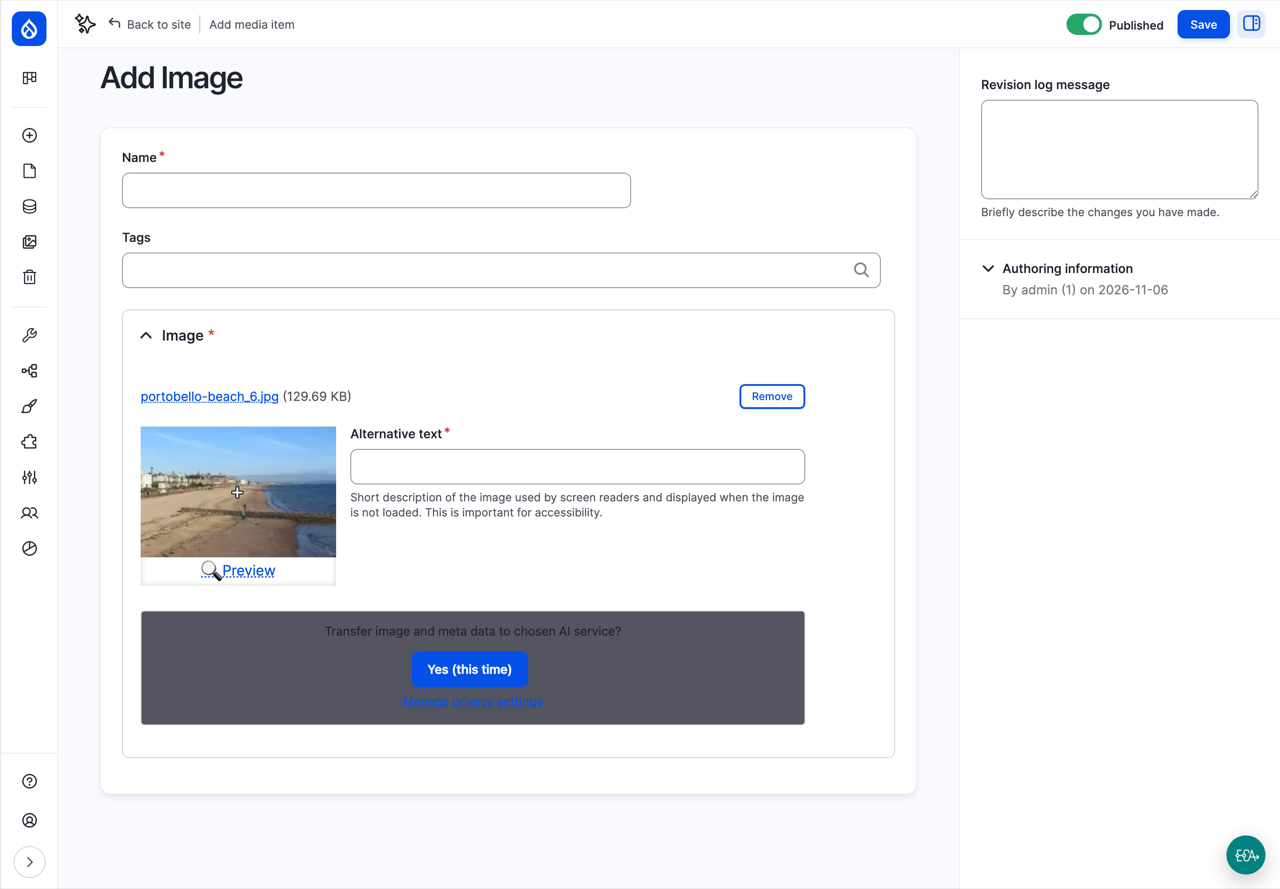
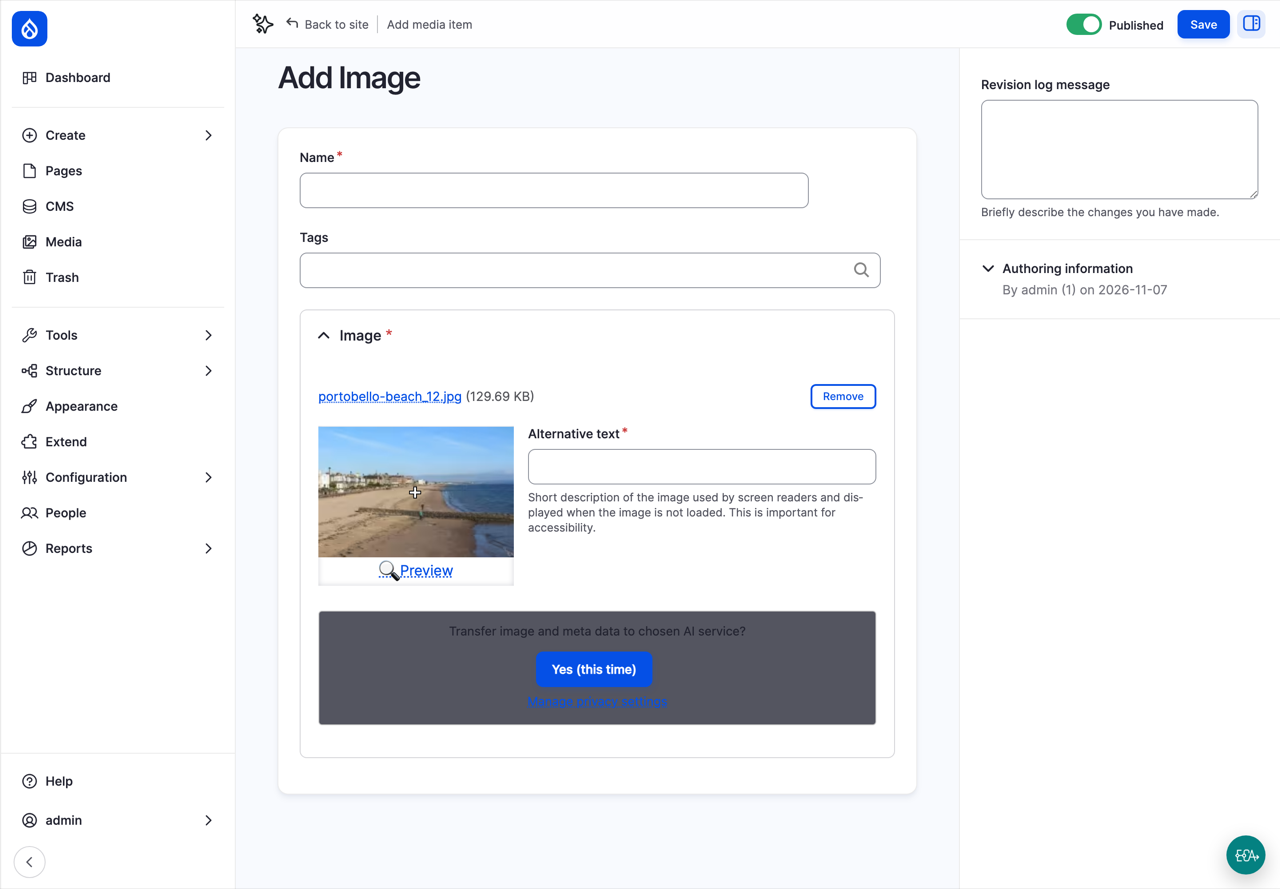
Chapter 19: figures retaken on Claude
The main screenshot sequence installs with amazee.ai, then switches to
Anthropic (the author's key) for the AI steps, and all its figures were
retaken. Canvas AI counts as done when the Review button appears, since
Claude leaves Thinking on screen. Translate Text gets no default so
Canvas Translate AI uses Claude, and the chapter says so. The &amp;
stays a fix by hand, as the author decided.

diff --git a/tools/screenshots.py b/tools/screenshots.py
@@ -4295,7 +4295,7 @@ def ai19_chat_text(page: Page) -> str:
     return page.evaluate("() => { const c = document.querySelector('deep-chat'); const m = c && c.shadowRoot && c.shadowRoot.querySelector('#messages'); return m ? m.innerText : ''; }")
 
 
-def ai19_ask(page: Page, prompt: str, at_least: int = 30, quiet: int = 20, shot=None) -> str:
+def ai19_ask(page: Page, prompt: str, at_least: int = 30, quiet: int = 20, shot=None, done=None) -> str:
     """Types a prompt into the AI chat, sends it, and waits until the answer has stopped growing for `quiet` seconds."""
     before = len(ai19_chat_text(page))
     # Away from the navigation sidebar, which opens under the mouse and covers the chat.
@@ -4307,24 +4307,27 @@ def ai19_ask(page: Page, prompt: str, at_least: int = 30, quiet: int = 20, shot=
         shot()
     page.keyboard.press("Enter")
     waited, still, last = 0, 0, ""
-    while waited < 600:
+    while waited < 900:
         page.wait_for_timeout(5000)
         waited += 5
         text = ai19_chat_text(page)
         still = still + 5 if text == last else 0
         last = text
-        # The assistant shows "Contacting agents..." while its agents work, and Canvas AI "Thinking":
-        # either can last minutes without a change.
-        # Only a visible "Thinking" counts: Claude's answers leave a hidden one behind.
-        thinking = page.get_by_text("Thinking", exact=True)
-        busy = "Contacting agents" in text or any(thinking.nth(i).is_visible() for i in range(thinking.count()))
+        # The assistant shows "Contacting agents..." while its agents work. Canvas AI shows "Thinking", but
+        # with Claude that stays on screen after the answer, so Canvas pages pass their own `done` instead.
+        if done:
+            finished = done(page)
+        else:
+            thinking = page.get_by_text("Thinking", exact=True)
+            finished = not any(thinking.nth(i).is_visible() for i in range(thinking.count()))
+        busy = "Contacting agents" in text or not finished
         if waited >= at_least and len(text) > before + 100 and still >= quiet and not busy:
             # Show the newest question and answer from their start.
             page.evaluate("() => { const m = document.querySelector('deep-chat').shadowRoot.querySelector('#messages'); const users = m.querySelectorAll('.user-message'); if (users.length) users[users.length - 1].scrollIntoView(); }")
             page.mouse.move(1100, 700)
             page.wait_for_timeout(1000)
             return text
-    raise RuntimeError("The AI didn't answer within ten minutes")
+    raise RuntimeError("The AI didn't answer within fifteen minutes")
 
 
 def ai19_klaro_yes(page: Page, within: str = "body") -> None:
@@ -4361,15 +4364,18 @@ def ai19_canvas_page(page: Page, site: dict, prompt: str, shot_prompt=None) -> N
     page.wait_for_timeout(6000)
     page.get_by_label("Open AI Panel").click()
     page.wait_for_timeout(2500)
-    ai19_ask(page, prompt, at_least=180, quiet=45, shot=(lambda: shot_prompt()) if shot_prompt else None)
+    # Done when Canvas AI has put its changes on the page: the Review button counts them.
+    ai19_ask(page, prompt, at_least=180, quiet=45, shot=(lambda: shot_prompt()) if shot_prompt else None,
+             done=lambda p: p.locator("button:has-text('Review')").filter(has_text="change").count() > 0)
     page.wait_for_timeout(3000)
 
 
 def ai19_cms_steps(page: Page, site: dict, snap) -> None:
     """Chapter 19 on Drupal CMS: the AI Assistant, the chatbot, alt text, Canvas AI and Canvas Translate AI.
 
-    Starts from the end of Chapter 18 (a DDEV snapshot). Talks to amazee.ai's free trial, so it needs
-    the internet, and the AI's answers (and so the screenshots) are different every time.
+    Starts from the end of Chapter 18 (a DDEV snapshot). Installs with amazee.ai, as the chapter does, then
+    switches to Anthropic for the AI steps (needs the author's key), so it needs the internet, costs a little,
+    and the AI's answers (and so the screenshots) are different every time.
     """
     url = site["url"]
     subprocess.run(["ddev", "snapshot", "restore", "ch18-done"], cwd=site["dir"], check=True, capture_output=True)
@@ -4404,6 +4410,9 @@ def ai19_cms_steps(page: Page, site: dict, snap) -> None:
     page.evaluate("() => { document.activeElement && document.activeElement.blur(); window.scrollTo(0, 0); }")
     ai19_tidy(page)
     snap("19-cms-ai-dashboard")
+    # The figures from here on are taken with Anthropic: amazee.ai's trial without an account runs out after
+    # a few runs (the chapter says so). Needs the key, see ai19_anthropic_key().
+    ai19_use_anthropic(page, site)
 
     # The chatbot: tags, then a field.
     tags = url + "/admin/structure/taxonomy/manage/tags/overview"
@@ -4520,16 +4529,13 @@ def ai19_anthropic_key() -> str:
     return key
 
 
-def ai19_anthropic_steps(page: Page, site: dict, snap) -> None:
-    """Chapter 19, the second provider: Anthropic's key and settings, then the same questions as with amazee.ai.
+def ai19_use_anthropic(page: Page, site: dict, snap=None) -> None:
+    """Connects Anthropic the way the chapter does: a key, the provider, and AI Settings.
 
-    Starts right after the AI Assistant was installed (a DDEV snapshot). Without a key (see ai19_anthropic_key),
-    it only takes the provider page, with no key selected.
+    The key comes from ai19_anthropic_key(). With `snap`, takes the provider page and AI Settings
+    (figures 19.17 and 19.18); without a key, takes only the provider page and returns.
     """
     url = site["url"]
-    subprocess.run(["ddev", "snapshot", "restore", "ch19-ai-installed"], cwd=site["dir"], check=True, capture_output=True)
-    drush(site, "cache:rebuild")
-    log_in(page, site)
     key = ai19_anthropic_key()
     if key:
         page.goto(url + "/admin/config/system/keys/add")
@@ -4554,15 +4560,19 @@ def ai19_anthropic_steps(page: Page, site: dict, snap) -> None:
     if key:
         page.select_option("select[name='api_key']", label="Anthropic API key")
         page.wait_for_timeout(1000)
-    snap("19-cms-anthropic")
+    if snap:
+        snap("19-cms-anthropic")
     if not key:
-        print("No Anthropic API key: skipping the rest of the Anthropic sequence.")
-        return
+        if snap:
+            print("No Anthropic API key: skipping the rest of the Anthropic sequence.")
+            return
+        raise RuntimeError("No Anthropic API key: see ai19_anthropic_key()")
     page.locator("#edit-submit").first.evaluate("e => e.click()")
     page.wait_for_load_state("networkidle")
 
-    # AI Settings: Anthropic, Claude Sonnet 5.5, for every chat operation type. Set with Drush (the page's
-    # selects load their models by AJAX, which is unreliable from a script), then shown on the page.
+    # AI Settings: Anthropic, Claude Sonnet 5.5, for the chat jobs, and no default for Translate Text, so
+    # Canvas Translate AI falls back to chat. Set with Drush (the page's selects load their models by AJAX,
+    # which is unreliable from a script), then shown on the page.
     drush_php(site, r"""
 $config = \Drupal::configFactory()->getEditable('ai.settings');
 $defaults = $config->get('default_providers');
@@ -4570,13 +4580,30 @@ $defaults = $config->get('default_providers');
 foreach (['chat', 'chat_with_image_vision', 'chat_with_structured_response', 'chat_with_tools'] as $op) {
   $defaults[$op] = ['provider_id' => 'anthropic', 'model_id' => 'claude-sonnet-5-5'];
 }
+unset($defaults['translate_text']);
 $config->set('default_providers', $defaults)->save();
 """)
-    page.goto(url + "/admin/config/ai/settings")
-    page.wait_for_load_state("networkidle")
-    page.wait_for_timeout(1500)
-    ai19_tidy(page)
-    snap("19-cms-ai-settings")
+    if snap:
+        page.goto(url + "/admin/config/ai/settings")
+        page.wait_for_load_state("networkidle")
+        page.wait_for_timeout(1500)
+        ai19_tidy(page)
+        snap("19-cms-ai-settings")
+
+
+def ai19_anthropic_steps(page: Page, site: dict, snap) -> None:
+    """Chapter 19, the second provider: Anthropic's key and settings, then the same questions as with amazee.ai.
+
+    Starts right after the AI Assistant was installed (a DDEV snapshot). Without a key (see ai19_anthropic_key),
+    it only takes the provider page, with no key selected.
+    """
+    url = site["url"]
+    subprocess.run(["ddev", "snapshot", "restore", "ch19-ai-installed"], cwd=site["dir"], check=True, capture_output=True)
+    drush(site, "cache:rebuild")
+    log_in(page, site)
+    ai19_use_anthropic(page, site, snap)
+    if not ai19_anthropic_key():
+        return
 
     # The same questions as with amazee.ai: tags, alt text, and the short Canvas AI prompt.
     tags = url + "/admin/structure/taxonomy/manage/tags/overview"

diff --git a/PROJECT-LOG.md b/PROJECT-LOG.md
@@ -119,7 +119,7 @@ Made on 2026-11-04, at the start of the rewrite.
 - **2026-11-06**: The author on Chapter 13: count the photos in each album. A pointer after Figure 13.13, Exercise 7 *(advanced)*, and its answer in Appendix C (Figures C.4 to C.6), tested on the site: with aggregation on, the first-photo field groups by the photo's ID (`group_column` `target_id`), so the duplicates of "Too many rows" come back with a count of 1 each; **Group column** **Entity ID** groups by the album, and the field still shows the first photo. A screenshot sequence that undoes itself (`views2_album_count_steps`). Committed on the Chapter 14 branch, with the author's agreement.
 - **2026-11-06**: Drafted Chapter 18, *Multilingual Sites*, with the author's answers: translate everything visitors see (interface, the four content types, both vocabularies, media alt text, menus, the Club info and Join blocks, view and block titles, field labels); `/es` prefix with English bare, a switcher in Olivero's Secondary menu, Browser detection described but off; Spanish aliases from per-language Pathauto patterns (`/excursiones`, `/albumes`, `/noticias`, `/zonas`, `/temas-fotograficos`); neutral Spanish, code `es`; a Translator role for Lucía; Canvas Translate on Drupal CMS (AI translation left for Chapter 19); four boxes (Drupalism: three translations; Under the hood: translations; Coming from WordPress?; contributed modules). Found on the way: views list every translation (fixed with **Default translation** = True and **Rendering Language** = the page's language, set per display); Pathauto's automatic-alias setting is per entity, not per translation (Turnhouse's Spanish alias typed by hand); Layout Builder doesn't translate inline blocks (How to join's When and where stays English). Two bugs, both in the backlog: Default Admin hides the moderation select from translate-only users (the author: Lucía publishes her own translations until it's fixed), and Canvas Translate's dashboard fails on Drupal CMS's Basic page template (the author: work around it, with `examples/canvas-translate/remove-empty-heading-links.php`). Applied core patch #3590967 (PHP 8.5 deprecation) to the core test site with composer-patches. 33 figures; Spanish texts in `examples/club/spanish.md`. Both test sites have DDEV snapshots `ch17-done` and `ch18-done` (`ddev snapshot restore ch18-done`).
 - **2026-11-06**: Drafted Chapter 19, *AI in Drupal CMS*, with the author's answers: all four features (the assistant fills Tags with 25 terms, then adds a Tags field to Image media; alt text; Canvas AI builds a beginners' page, *First hike with Lens & Trail*; Canvas Translate AI for Lucía), amazee.ai with OpenAI and Anthropic described, an On Drupal core box (the AI module doesn't install on Drupal 12 yet: Composer refuses, ^10.5 || ^11.2), Before you switch it on, a review of every result, What it can't do, and boxes (Under the hood: providers, models, tokens, agents; Drupalism: the assistant works as you, checked in `ai_agents`' tools; Coming from WordPress?, checked on wordpress.org). Found while testing: a short prompt makes Canvas AI invent times, distances, bookings and testimonials; a prompt with the club's facts invents nothing; Canvas AI writes "&" as `&amp;` (no issue in the Canvas queue); the assistant's account of its work was wrong while the work was right. New Preface section *How this book was made* (a first version of the backlog item). Numbers `ai_version`, `amazeeio_trial_days`, `amazeeio_starter_price`. 16 screenshots in one sequence, from the `ch18-done` snapshot.
-- **2026-11-07**: Chapter 19, after the author's first look: the On Drupal core box now shows how to fetch and apply the AI Assistant recipe with Composer and Drush (tested on a new Drupal 11.4.12 core site; still not on Drupal 12). New section *A second provider: Anthropic* (an API key in the Claude Console, the Key module with Easy Encrypted, the provider's moderation setting, AI Settings per operation type); the comparison with amazee.ai waits for the author's API key. The API key note was wrong (keys are in configuration, encrypted, with Easy Encrypted) and was replaced. Screenshot fixes: `ai19_tidy` only closes the chat when it's open (the button toggles), and the dashboard figure is taken from the top. With the author's Anthropic key (in `~/.config/lens-and-trail/anthropic-api-key`, never in the repository), ran the tags, alt text and short Canvas AI prompt on Claude Sonnet 5.5 and wrote *The same questions, another model*: tags as good, with an honest "counting slip"; alt text as good, no Portobello; the page invented as much as amazee.ai's (6–8 km, 8:30 to 2:30, a free first hike, bookings, two of the same made-up testimonial names) and wrote `&amp;` too, so the ampersand bug is Canvas's, not the model's. Figures 19.17–19.20. The author's first credit went to the Claude subscription, not the Console; the chapter warns about that.
+- **2026-11-07**: Chapter 19, after the author's first look: the On Drupal core box now shows how to fetch and apply the AI Assistant recipe with Composer and Drush (tested on a new Drupal 11.4.12 core site; still not on Drupal 12). New section *A second provider: Anthropic* (an API key in the Claude Console, the Key module with Easy Encrypted, the provider's moderation setting, AI Settings per operation type); the comparison with amazee.ai waits for the author's API key. The API key note was wrong (keys are in configuration, encrypted, with Easy Encrypted) and was replaced. Screenshot fixes: `ai19_tidy` only closes the chat when it's open (the button toggles), and the dashboard figure is taken from the top. With the author's Anthropic key (in `~/.config/lens-and-trail/anthropic-api-key`, never in the repository), ran the tags, alt text and short Canvas AI prompt on Claude Sonnet 5.5 and wrote *The same questions, another model*: tags as good, with an honest "counting slip"; alt text as good, no Portobello; the page invented as much as amazee.ai's (6–8 km, 8:30 to 2:30, a free first hike, bookings, two of the same made-up testimonial names) and wrote `&amp;` too, so the ampersand bug is Canvas's, not the model's. Figures 19.17–19.20. The author's first credit went to the Claude subscription, not the Console; the chapter warns about that. Then, on the author's request, the main sequence switches to Anthropic after the dashboard figure (`ai19_use_anthropic`; Translate Text set to no default, so Canvas Translate AI uses Claude), and all its figures were retaken on Claude; the chapter says most figures are Claude's and the examples in the text come from both. Canvas AI's "Thinking" stays on screen after Claude has finished, so Canvas pages now count as done when the Review button appears and the chat has been quiet for 45 seconds.
 
 ## The photo club site
 
@@ -191,11 +191,10 @@ Ideas that have no chapter yet, or are waiting for one.
 - **Draft the two drupal.org issues from Chapter 18** (the author, 2026-11-06; not now): one for core's Default Admin theme (the moderation select hidden from translate-only users, with the tested two-line fix) and one for Canvas (the extractor failing on the empty heading link). Both are described in the two entries below. Draft them for the author to post; don't post them.
 - **Canvas Translate's dashboard fails on a stock Drupal CMS site** (the author, 2026-11-06: work around it, describe it here). On Drupal CMS 2.2.8 (Canvas 1.12.0, Canvas Translate 1.0.0-beta1), `/canvas/app/canvas_translate` shows "Something went wrong on our end". The log has a TypeError: `ComponentInputsTranslatablesExtractor::extractTranslatables(): Argument #2 ($config_data) must be of type array, string given`. The cause is the Basic page content template (`node.page.full`, shipped by Drupal CMS): its Mercury Heading stores the link prop as an empty string (`"url": ""`), while the prop's schema is a mapping, and Canvas's extractor (`src/Tmgmt/ComponentInputsTranslatablesExtractor.php`, `extractTranslatablesOptionallyIncludingEmpty()`) passes the string on where an array is expected. No issue found in the Canvas or Canvas Translate queues (2026-11-06). Chapter 18 works around it with a script in `examples/` that removes the empty link from the template. To do: open an issue in Canvas's queue (the extractor should skip a non-array value for a mapping; maybe also in Drupal CMS, for the template's data), then put the link in Chapter 18. Once it's fixed, drop the workaround from the chapter and `tools/screenshots.py`.
 - **Explain "d.o"** (the author, 2026-11-06): the Drupalism for drupal.org, as in "post it on d.o" or "the d.o issue queue". Probably a Drupalism box where the book first sends the reader to drupal.org's project pages and issue queues (Chapter 11's "Choosing a module"), or in Chapter 22 with the community's other shorthand.
-- **Canvas AI writes "&" as `&amp;`** (found 2026-11-06 for Chapter 19; the author to decide: leave it, patch and file it, or work around it). On Drupal CMS 2.2.8 (Canvas 1.12.0), a prompt with "Lens & Trail" gives `&amp;` in the hero heading, the page title, the meta description and the URL alias (`/first-hike-with-lens-amp-trail...`); the AI's own reply warns about it. No issue in the Canvas queue (GitLab work items, searched ampersand, &amp, escaped, decode, special characters). The chapter has readers fix it by hand. Canvas Translate AI (1.0.0-beta1) does the same: with "&" fixed in the English, its Spanish suggestions have `Lens &amp; Trail` in the title, meta description and heading; the module sends the text as it is, with a prompt that says to keep entities, so the encoding comes from the editor or the model. No issue in the Canvas Translate queue either (drupal.org, 2026-11-06).
+- **Canvas AI writes "&" as `&amp;`** (found 2026-11-06 for Chapter 19; the author decided on 2026-11-07: readers fix it by hand, as the chapter says; rewrite that section if Canvas fixes it). It happens with amazee.ai and with Anthropic's Claude, so it's Canvas's, not the model's. On Drupal CMS 2.2.8 (Canvas 1.12.0), a prompt with "Lens & Trail" gives `&amp;` in the hero heading, the page title, the meta description and the URL alias (`/first-hike-with-lens-amp-trail...`); the AI's own reply warns about it. No issue in the Canvas queue (GitLab work items, searched ampersand, &amp, escaped, decode, special characters). The chapter has readers fix it by hand. Canvas Translate AI (1.0.0-beta1) does the same: with "&" fixed in the English, its Spanish suggestions have `Lens &amp; Trail` in the title, meta description and heading; the module sends the text as it is, with a prompt that says to keep entities, so the encoding comes from the editor or the model. No issue in the Canvas Translate queue either (drupal.org, 2026-11-06).
 - **Canvas issues that may be Chapter 18's bug** (found 2026-11-06): [#3592006](https://git.drupalcode.org/project/canvas/-/work_items/3592006) (closed 2026-09-02: config translation WSOD with an optional empty link input) and [#3592152](https://git.drupalcode.org/project/canvas/-/work_items/3592152) (open: TypeError in ComponentInputsMapping for config component trees with JSON-encoded inputs). Check whether either is the Canvas Translate dashboard failure, and whether the workaround script can go when Canvas is updated.
 - **The Multilingual recommended add-on** (found 2026-11-06): Drupal CMS's Recommended add-ons in Project Browser include a **Multilingual** recipe, which Chapter 18's On Drupal CMS section doesn't mention. Ask the author whether to add it.
 - **Chapter 19, Anthropic provider 1.3** (2026-11-07): ai_provider_anthropic 1.2.2 (in Drupal CMS 2.2.8) filters Chat with Complex JSON models by name, and no Claude 5 model matches; 1.3.0-beta2 reads each model's capabilities instead. The chapter tells readers to leave that row on amazee.ai. When 1.3 is stable and Drupal CMS requires it, remove that paragraph and set the row in `ai19_anthropic_steps`.
-- **Retake five Chapter 19 figures** (2026-11-06; needs the author): amazee.ai's anonymous trial on the CMS test site ran out during the last screenshot run, so figures 19.10 (alt text), 19.13 to 19.15 (Canvas AI) and 19.16 (Canvas Translate AI) show failed or unfinished runs, each with a `%%` note. Register the test site with amazee.ai (an email address and a code: Configuration > AI > Providers), or use an OpenAI or Anthropic key, then `tools/screenshots.py 19`, and check the text against the new figures (the AI's answers differ every run). Restoring `ch18-done` starts the recipe again; check whether the registration survives that, or take a new snapshot after registering.
 - **Canvas AI: "Region \"content\" does not exist"** (seen once, 2026-11-06, in the last screenshot run, just before the trial ran out): Canvas AI couldn't save a page ("Every attempt to save it failed with the error Region content does not exist"), and logged component validation errors (`mobile_columns is required` on `sdc.mercury.section`). Retry with a working provider before looking in the Canvas queue.
 
 - **Build your own Canvas component** (advanced; partly theming). Maybe the end of Chapter 16, or

diff --git a/manuscript/19-ai-in-drupal-cms.md b/manuscript/19-ai-in-drupal-cms.md
@@ -14,7 +14,7 @@ Three questions come before the first click: what does it cost, where does the d
 
 **What it costs.** The AI doesn't run on your site. Drupal sends your question to an *AI provider*, a company that runs large language models on its own computers, and the provider sends an answer back. Providers charge for this, by the amount of text that goes back and forth. Drupal CMS lets you start with amazee.ai, which gives you a free trial of {{ number:amazeeio_trial_days }} days without a credit card. After that, its plans start at {{ number:amazeeio_starter_price }}. OpenAI and Anthropic, the other two providers on offer, need an account and an *API key* (a long secret password that lets your site use your account) from the start, and charge for what you use. For a small club, the bill is small, but it's never zero, and a module that calls the AI on every save can surprise you.
 
-The trial without an account is small. Ours ran out during an afternoon of testing for this chapter, in the middle of building a page, with the message "Your anonymous free trial budget has been exceeded! To continue using amazee.ai, please upgrade to a free account". From then on, every AI feature on the site failed, until we registered. So register (it's free, with an email address) before you rely on it, and know what happens on your site when the AI stops answering: the site itself keeps working, and only the AI buttons fail.
+The trial without an account is small. Ours ran out during an afternoon of testing for this chapter, in the middle of building a page, with the message "Your anonymous free trial budget has been exceeded! To continue using amazee.ai, please upgrade to a free account". From then on, every AI feature on the site failed, until we connected a second provider, Anthropic, as we show later in this chapter. That's why most figures in this chapter, from Figure 19.4 on, were taken with Anthropic's Claude, while the examples in the text come from both. So register (it's free, with an email address) before you rely on it, and know what happens on your site when the AI stops answering: the site itself keeps working, and only the AI buttons fail.
 
 **Where the data goes.** Everything you send the AI leaves your site: your question, the page you're working on, and, for alternative text, the photo itself. For Lens & Trail, that means the members' photos, and sometimes the members in them. Read your provider's terms before you send anything personal: where they keep the data, for how long, and whether they train their models on it. amazee.ai lets you choose the country your data stays in (Germany, the United Kingdom, Switzerland, the United States or Australia, when we wrote this). In Europe, the GDPR applies to photos of people too, and the club should say in its privacy policy that it uses an AI service, and which one.
 
@@ -122,7 +122,7 @@ Its answer isn't always as good as its work. In one of our runs, it started with
 
 So go to **Structure** > **Media types** > **Image** > **Manage fields**, and open the new field. Everything from Chapter 7 still applies, and you're the one who knows the answers:
 
-- **Create referenced entities if they don't already exist** was on when we tried it. That means anyone who adds a photo can make a new tag by typing it, and a misspelling becomes a tag forever. For a curated list like the one we cleaned up, switch it off, or only allow it for the editors.
+- **Create referenced entities if they don't already exist** was on in some of our runs and off in another, so check it. When it's on, anyone who adds a photo can make a new tag by typing it, and a misspelling becomes a tag forever. For a curated list like the one we cleaned up, switch it off, or only allow it for the editors.
 - Is the field in the right place on the form, with a useful label and help text?
 - Who sees the tags on a photo, and do they link anywhere useful? A tag's page lists content, not media (Chapter 13), so a link from a photo's tag leads to pages, not to other photos.
 
@@ -140,8 +140,6 @@ Before the photo goes anywhere, Klaro asks whether it may **Transfer image and m
 *Figure 19.9: Klaro asks before the photo leaves the site*
 
 Select **Yes (this time)**, then **Generate with AI** under the **Alternative text** field. A few seconds later, the field has a description.
-
-%% For the author: figure to retake. The amazee.ai anonymous trial ran out during the last screenshot run (2026-11-06), so this figure shows a failed or unfinished run. Register the CMS test site with amazee.ai (Configuration > AI > Providers), then run `tools/screenshots.py 19`. %%
 
 ![The Alternative text field, filled in by the AI with a description of a sandy beach, calm blue water and seafront buildings](images/19-cms-alt-generated.png)
 *Figure 19.10: Alternative text, written by the AI*
@@ -172,8 +170,6 @@ The club needs a page for beginners: what to bring, what happens on the day, and
 ![The Canvas editor with the AI panel open on the left and the prompt typed into its Build me a box](images/19-cms-canvas-ai-prompt.png)
 *Figure 19.12: Describing a page to Canvas AI*
 
-%% For the author: figure to retake. The amazee.ai anonymous trial ran out during the last screenshot run (2026-11-06), so this figure shows a failed or unfinished run. Register the CMS test site with amazee.ai (Configuration > AI > Providers), then run `tools/screenshots.py 19`. %%
-
 ![The page Canvas AI built: a hero with the title and a button, the start of a What to bring section, and the AI's summary of what it did and what to check in the panel](images/19-cms-canvas-ai-page.png)
 *Figure 19.13: A whole page, a few minutes later*
 
@@ -196,9 +192,7 @@ A better prompt gets a better page. Make a second page, and this time give Canva
 >
 > *Create a landing page called First hike with Lens & Trail, for people who have never been on a hike with the club. Use only these facts and do not invent any others: hikes are every other Saturday at 9:30; we email the meeting point a week before to the people who are coming; you don't need to book, just come along; bring boots, a waterproof jacket, a warm layer, food, your camera and a head torch; the path can be steep and muddy; to become a member, talk to the club secretary on the day or email hello@lens-and-trail-cms.ddev.site; membership is £20 a year (£10 for students). No testimonials, no prices other than these, and no images.*
 
-%% For the author: figure to retake. The amazee.ai anonymous trial ran out during the last screenshot run (2026-11-06), so this figure shows a failed or unfinished run. Register the CMS test site with amazee.ai (Configuration > AI > Providers), then run `tools/screenshots.py 19`. %%
-
-![The second page Canvas AI built, from the prompt with the club's facts: a hero that says hikes are every other Saturday at 9:30 with no need to book](images/19-cms-canvas-ai-facts.png)
+![The second page Canvas AI built, from the prompt with the club's facts: a blue hero with What to bring and How to join buttons, and a section called The basics](images/19-cms-canvas-ai-facts.png)
 *Figure 19.14: The same page, with the facts in the prompt*
 
 When we tried it, nothing was invented. What was left to review was ordinary editing, such as, in one of our runs:
@@ -213,8 +207,6 @@ That's the lesson of this section. AI is good at layout and wording, and it'll i
 
 Both pages had one more mistake, and it's not the AI's fault alone. The club's name has an ampersand, "&", and Canvas AI wrote it as `&amp;`, the code HTML uses for an ampersand: `First hike with Lens &amp; Trail` in the heading, in the page title, in the meta description, and in the URL alias, `/first-hike-with-lens-amp-trail...`. When we tested it, the AI even warned us that this might happen. Somewhere between the AI and Canvas, the text is encoded twice.
 
-%% For the author: no issue for this in the Canvas issue queue (searched 6 Nov 2026: ampersand, &amp, escaped, decode). Leave it, write a patch and file an issue, or work around it? For now the chapter has readers fix it by hand. %%
-
 So, before you publish:
 
 1. Select the page's heading in the preview, and fix the text in the component's form on the right.
@@ -223,8 +215,6 @@ So, before you publish:
 4. Point the buttons at real pages: **Become a member** to How to join, and so on.
 
 Then publish. Select **Review changes** at the top right (the button counts them, such as **Review 2 changes**): Canvas lists every page with unpublished changes, including the first page Canvas AI made. Check only *First hike with Lens & Trail*, and publish it.
-
-%% For the author: figure to retake. The amazee.ai anonymous trial ran out during the last screenshot run (2026-11-06), so this figure shows a failed or unfinished run. Register the CMS test site with amazee.ai (Configuration > AI > Providers), then run `tools/screenshots.py 19`. %%
 
 ![The Unpublished changes list in Canvas, with only First hike with Lens & Trail checked](images/19-cms-review-changes.png)
 *Figure 19.15: Publish only the page you've reviewed*
@@ -239,8 +229,6 @@ In Chapter 18, we translated How to join into Spanish in Canvas Translate, field
 2. Go to the Canvas Translate dashboard (Chapter 18), and select *First hike with Lens & Trail*.
 3. Select **AI translate empty**.
 
-%% For the author: figure to retake. The amazee.ai anonymous trial ran out during the last screenshot run (2026-11-06), so this figure shows a failed or unfinished run. Register the CMS test site with amazee.ai (Configuration > AI > Providers), then run `tools/screenshots.py 19`. %%
-
 ![Canvas Translate with the English page on the left and the AI's Spanish suggestions filled in on the right](images/19-cms-translate-ai.png)
 *Figure 19.16: Spanish suggestions for every empty field*
 
@@ -253,8 +241,6 @@ The button fills every *empty* translation field. It never overwrites a translat
 - **Read it aloud.** A machine translation is often correct, word by word, and still not how anyone would say it.
 
 So the AI does the typing, and Lucía does the translating. On a page with fifty-odd fields, that saves most of the typing, and that's a fair description of what AI can do for a translator.
-
-%% For the author: the examples above are from a test run on 2026-11-06; figure 19.16 is from another run, so its Spanish may differ in the details. %%
 
 ## A second provider: Anthropic
 
@@ -302,7 +288,7 @@ The provider is connected, but nothing uses it yet. Remember the operation types
 ![The AI Settings page: Chat, Chat with Image Vision, Chat with Structured Response and Chat with Tools/Function Calling set to Anthropic and Claude Sonnet 5.5, Chat with Complex JSON and Text To Image still on amazee.ai](images/19-cms-ai-settings.png)
 *Figure 19.18: Anthropic for the chat jobs*
 
-Leave the rest on amazee.ai. Anthropic's models write text and read images, but they don't make images, turn speech into text, or make *embeddings* (the numbers AI search uses), so **Anthropic** isn't on offer in those rows. It isn't under **Translate Text** either, but Canvas Translate AI falls back to the chat model, so it uses Claude too.
+Leave the rest on amazee.ai. Anthropic's models write text and read images, but they don't make images, turn speech into text, or make *embeddings* (the numbers AI search uses), so **Anthropic** isn't on offer in those rows. It isn't under **Translate Text** either. Canvas Translate AI uses the **Translate Text** provider if there is one, and the chat model if there isn't. So to translate with Claude too, choose **No default** under **Translate Text**.
 
 One row is odd: under **Chat with Complex JSON**, the **Model** list is empty with Anthropic. That's a bug in the Anthropic provider when we wrote this: it recognized its models by their names, and the newest names didn't match. It's fixed in the next version, which was still a beta. Until then, leave that row on amazee.ai; none of this chapter's features use it.
 

diff --git a/book/19-ai-in-drupal-cms.md b/book/19-ai-in-drupal-cms.md
@@ -14,7 +14,7 @@ Three questions come before the first click: what does it cost, where does the d
 
 **What it costs.** The AI doesn't run on your site. Drupal sends your question to an *AI provider*, a company that runs large language models on its own computers, and the provider sends an answer back. Providers charge for this, by the amount of text that goes back and forth. Drupal CMS lets you start with amazee.ai, which gives you a free trial of 30 days without a credit card. After that, its plans start at $15 a month. OpenAI and Anthropic, the other two providers on offer, need an account and an *API key* (a long secret password that lets your site use your account) from the start, and charge for what you use. For a small club, the bill is small, but it's never zero, and a module that calls the AI on every save can surprise you.
 
-The trial without an account is small. Ours ran out during an afternoon of testing for this chapter, in the middle of building a page, with the message "Your anonymous free trial budget has been exceeded! To continue using amazee.ai, please upgrade to a free account". From then on, every AI feature on the site failed, until we registered. So register (it's free, with an email address) before you rely on it, and know what happens on your site when the AI stops answering: the site itself keeps working, and only the AI buttons fail.
+The trial without an account is small. Ours ran out during an afternoon of testing for this chapter, in the middle of building a page, with the message "Your anonymous free trial budget has been exceeded! To continue using amazee.ai, please upgrade to a free account". From then on, every AI feature on the site failed, until we connected a second provider, Anthropic, as we show later in this chapter. That's why most figures in this chapter, from Figure 19.4 on, were taken with Anthropic's Claude, while the examples in the text come from both. So register (it's free, with an email address) before you rely on it, and know what happens on your site when the AI stops answering: the site itself keeps working, and only the AI buttons fail.
 
 **Where the data goes.** Everything you send the AI leaves your site: your question, the page you're working on, and, for alternative text, the photo itself. For Lens & Trail, that means the members' photos, and sometimes the members in them. Read your provider's terms before you send anything personal: where they keep the data, for how long, and whether they train their models on it. amazee.ai lets you choose the country your data stays in (Germany, the United Kingdom, Switzerland, the United States or Australia, when we wrote this). In Europe, the GDPR applies to photos of people too, and the club should say in its privacy policy that it uses an AI service, and which one.
 
@@ -122,7 +122,7 @@ Its answer isn't always as good as its work. In one of our runs, it started with
 
 So go to **Structure** > **Media types** > **Image** > **Manage fields**, and open the new field. Everything from Chapter 7 still applies, and you're the one who knows the answers:
 
-- **Create referenced entities if they don't already exist** was on when we tried it. That means anyone who adds a photo can make a new tag by typing it, and a misspelling becomes a tag forever. For a curated list like the one we cleaned up, switch it off, or only allow it for the editors.
+- **Create referenced entities if they don't already exist** was on in some of our runs and off in another, so check it. When it's on, anyone who adds a photo can make a new tag by typing it, and a misspelling becomes a tag forever. For a curated list like the one we cleaned up, switch it off, or only allow it for the editors.
 - Is the field in the right place on the form, with a useful label and help text?
 - Who sees the tags on a photo, and do they link anywhere useful? A tag's page lists content, not media (Chapter 13), so a link from a photo's tag leads to pages, not to other photos.
 
@@ -192,7 +192,7 @@ A better prompt gets a better page. Make a second page, and this time give Canva
 >
 > *Create a landing page called First hike with Lens & Trail, for people who have never been on a hike with the club. Use only these facts and do not invent any others: hikes are every other Saturday at 9:30; we email the meeting point a week before to the people who are coming; you don't need to book, just come along; bring boots, a waterproof jacket, a warm layer, food, your camera and a head torch; the path can be steep and muddy; to become a member, talk to the club secretary on the day or email hello@lens-and-trail-cms.ddev.site; membership is £20 a year (£10 for students). No testimonials, no prices other than these, and no images.*
 
-![The second page Canvas AI built, from the prompt with the club's facts: a hero that says hikes are every other Saturday at 9:30 with no need to book](images/19-cms-canvas-ai-facts.png)
+![The second page Canvas AI built, from the prompt with the club's facts: a blue hero with What to bring and How to join buttons, and a section called The basics](images/19-cms-canvas-ai-facts.png)
 *Figure 19.14: The same page, with the facts in the prompt*
 
 When we tried it, nothing was invented. What was left to review was ordinary editing, such as, in one of our runs:
@@ -288,7 +288,7 @@ The provider is connected, but nothing uses it yet. Remember the operation types
 ![The AI Settings page: Chat, Chat with Image Vision, Chat with Structured Response and Chat with Tools/Function Calling set to Anthropic and Claude Sonnet 5.5, Chat with Complex JSON and Text To Image still on amazee.ai](images/19-cms-ai-settings.png)
 *Figure 19.18: Anthropic for the chat jobs*
 
-Leave the rest on amazee.ai. Anthropic's models write text and read images, but they don't make images, turn speech into text, or make *embeddings* (the numbers AI search uses), so **Anthropic** isn't on offer in those rows. It isn't under **Translate Text** either, but Canvas Translate AI falls back to the chat model, so it uses Claude too.
+Leave the rest on amazee.ai. Anthropic's models write text and read images, but they don't make images, turn speech into text, or make *embeddings* (the numbers AI search uses), so **Anthropic** isn't on offer in those rows. It isn't under **Translate Text** either. Canvas Translate AI uses the **Translate Text** provider if there is one, and the chat model if there isn't. So to translate with Claude too, choose **No default** under **Translate Text**.
 
 One row is odd: under **Chat with Complex JSON**, the **Model** list is empty with Anthropic. That's a bug in the Anthropic provider when we wrote this: it recognized its models by their names, and the newest names didn't match. It's fixed in the next version, which was still a beta. Until then, leave that row on amazee.ai; none of this chapter's features use it.
 

diff --git a/README.md b/README.md
@@ -112,7 +112,7 @@ So far it has the screenshots of Chapters 6 to 8; Chapters 4 and 5 are still to 
 | 16. Appearance: Themes | **Reviewed by the author (2026-11-06).** No code (the author): what a theme is (Drupalism: theme), the Appearance page, Stark as a site without a look, themes from drupal.org (Choosing a theme box), Solo with Composer (what came along, why the club's blocks didn't: per-theme placements, Solo's own), uninstalling and removing a theme, Olivero's settings for the club (logo, color `#1f6f5c`), the administration theme and Default Admin's settings, Under the hood: templates (Twig development mode, file name suggestions), where theming begins (pointing to the companion book *Theming Drupal*), a full Drupal CMS section (Mercury, components, and the same Canvas page in Mercury, Olivero, Tara and Byte), Coming from WordPress?, six exercises. Checked on the test sites; 20 screenshots from `tools/screenshots.py`. |
 | 17. Nice URLs and SEO | **Reviewed by the author, first pass (2026-11-06).** Pathauto and Token, Redirect and Redirect 404, Simple XML Sitemap on core (development versions on Drupal 12); content basics; a Structured data box; Metatag, Real-time SEO and SEO Checklist on Drupal CMS. 22 figures. |
 | 18. Multilingual Sites | **Drafted (2026-11-06), waiting for the author's review.** Language, Interface Translation, Content Translation and Configuration Translation; Spanish with URL prefixes and a switcher; translatable fields; Pathauto patterns per language; views with Default translation and Rendering language; configuration and interface translation; Layout Builder's untranslated inline block; a Translator role for Lucía (publishes her own translations, see the backlog); Canvas Translate on Drupal CMS (with a workaround for a Canvas bug). 33 figures. Spanish texts in `examples/club/spanish.md`.
-| 19. AI in Drupal CMS | **Drafted (2026-11-06), reviewed by the author (2026-11-07).** Drupal CMS, with an On Drupal core box (the `drupal/drupal_cms_ai` recipe with Composer and Drush, tested on Drupal 11.4 core; not on Drupal 12 yet). A second provider, Anthropic (key, provider, AI Settings), and the same three questions on Claude Sonnet 5.5 (2026-11-07): the same kinds of invented details, and the same `&amp;`. Before you switch it on (cost, data, responsibility; Klaro), the AI Assistant recipe with amazee.ai (OpenAI and Anthropic described), the AI dashboard; the assistant fills Tags and adds a Tags field to Image media, with a review of both; alt text with a review; Canvas AI builds *First hike with Lens & Trail* twice (a short prompt that invents facts, and one with the club's facts), the `&amp;` bug, publishing only the reviewed page; Canvas Translate AI suggestions for Lucía to check; What it can't do (pointing to a new Preface section, *How this book was made*); Under the hood, Drupalism, Coming from WordPress? boxes; AI Automators and MCP; five exercises. 16 screenshots from `tools/screenshots.py` (the AI's answers differ every run); five (19.10, 19.13 to 19.16) to retake after registering the test site with amazee.ai, whose anonymous trial ran out. |
+| 19. AI in Drupal CMS | **Drafted (2026-11-06), reviewed by the author (2026-11-07).** Drupal CMS, with an On Drupal core box (the `drupal/drupal_cms_ai` recipe with Composer and Drush, tested on Drupal 11.4 core; not on Drupal 12 yet). A second provider, Anthropic (key, provider, AI Settings), and the same three questions on Claude Sonnet 5.5 (2026-11-07): the same kinds of invented details, and the same `&amp;`. Before you switch it on (cost, data, responsibility; Klaro), the AI Assistant recipe with amazee.ai (OpenAI and Anthropic described), the AI dashboard; the assistant fills Tags and adds a Tags field to Image media, with a review of both; alt text with a review; Canvas AI builds *First hike with Lens & Trail* twice (a short prompt that invents facts, and one with the club's facts), the `&amp;` bug, publishing only the reviewed page; Canvas Translate AI suggestions for Lucía to check; What it can't do (pointing to a new Preface section, *How this book was made*); Under the hood, Drupalism, Coming from WordPress? boxes; AI Automators and MCP; five exercises. 20 screenshots from `tools/screenshots.py` (the AI's answers differ every run), taken with Anthropic from Figure 19.4 on (the author's key; amazee.ai's anonymous trial ran out). |
 | 20. Keeping Your Site Safe | Not started. Updates, security advisories, backups. |
 | 21. Configuration and Going Live | Not started. Configuration export and import, moving a site. |
 | 22. Where Next? | Not started. Contributing, events, the Drupal Association, jobs. |
